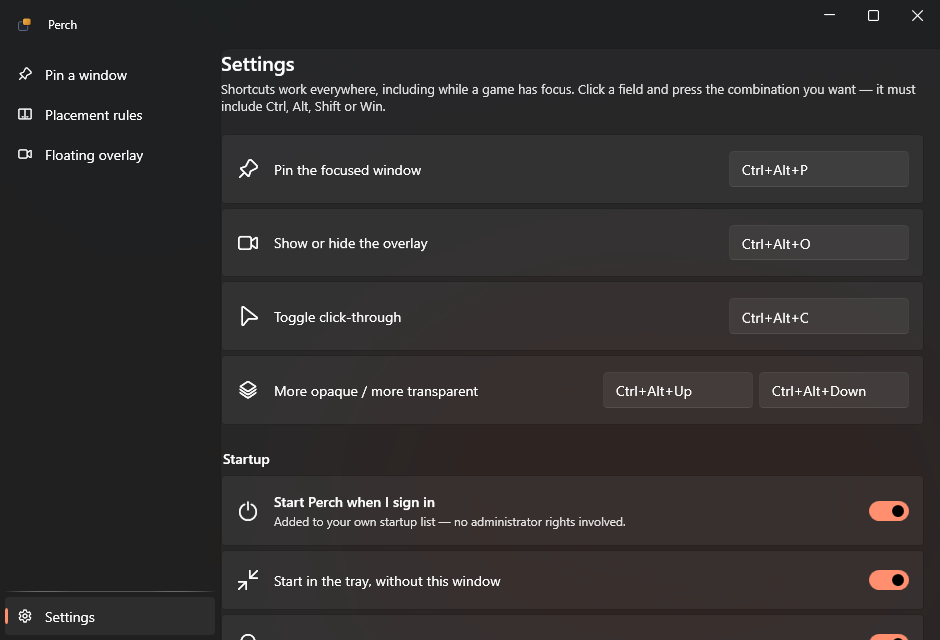
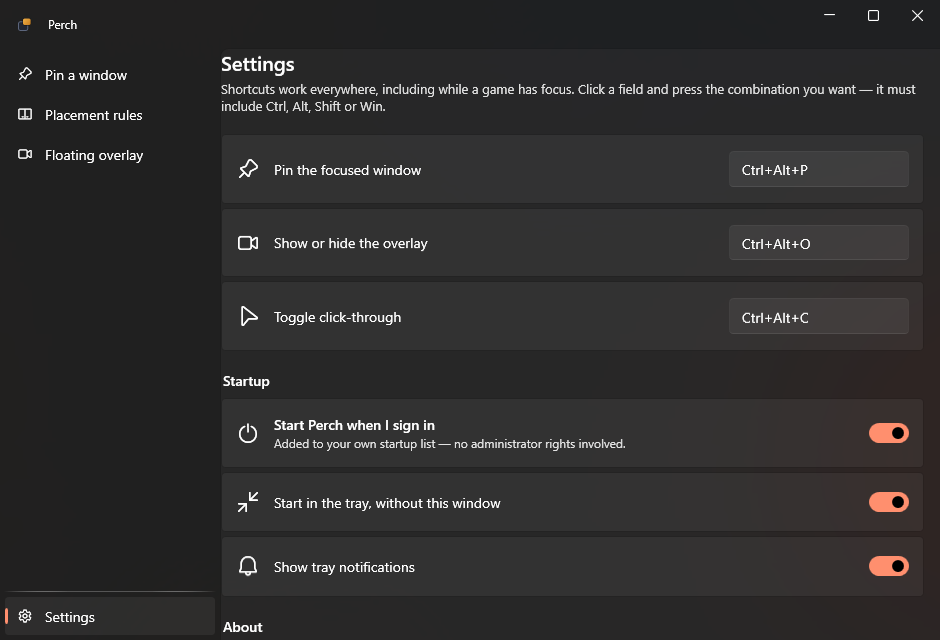
Remove the overlay opacity slider: it never worked
Measured against the live window: SetWindowLongPtr reports success but the
WS_EX_LAYERED bit does not stick, and SetLayeredWindowAttributes then fails
with ERROR_INVALID_PARAMETER. WPF clears that style on every window settings
update unless AllowsTransparency is on, and AllowsTransparency cannot render
WebView2 content at all -- so a translucent viewer would mean hosting the
browser outside WPF. Not worth that for a secondary feature.

Ruled out first, each verified against the window rather than assumed:
re-applying the style on a timer, software render mode, and WindowChrome
(restored afterwards -- it was not the cause and it provides the resize edges).

The slider, its two shortcuts and the stored setting are gone rather than left
sitting there doing nothing. README says why, and points at pinning your own
browser window if you want to see the game through it.

Also fixes a crash log on every extra launch: the second instance called
ReleaseMutex on a mutex it had never owned.

diff --git a/src/Perch/Views/OverlayWindow.xaml b/src/Perch/Views/OverlayWindow.xaml
@@ -1,4 +1,4 @@
-<Window x:Class="Perch.Views.OverlayWindow"
+<Window x:Class="Perch.Views.OverlayWindow"
         xmlns="http://schemas.microsoft.com/winfx/2006/xaml/presentation"
         xmlns:x="http://schemas.microsoft.com/winfx/2006/xaml"
         xmlns:shell="clr-namespace:System.Windows.Shell;assembly=PresentationFramework"
@@ -14,8 +14,8 @@
         Background="{DynamicResource ApplicationBackgroundBrush}"
         UseLayoutRounding="True">
 
-    <!-- Deliberately frameless: this is a video frame that sits over a game,
-         so a full title bar would only eat pixels. -->
+    <!-- Deliberately frameless: this is a video frame that sits over a game, so a full
+         title bar would only eat pixels. -->
     <shell:WindowChrome.WindowChrome>
         <shell:WindowChrome CaptionHeight="0"
                             ResizeBorderThickness="6"
@@ -40,7 +40,6 @@
                         <ColumnDefinition Width="Auto" />
                         <ColumnDefinition Width="Auto" />
                         <ColumnDefinition Width="*" />
-                        <ColumnDefinition Width="Auto" />
                         <ColumnDefinition Width="Auto" />
                         <ColumnDefinition Width="Auto" />
                         <ColumnDefinition Width="Auto" />
@@ -71,19 +70,15 @@
                                 VerticalContentAlignment="Center" KeyDown="AddressBox_KeyDown"
                                 PlaceholderText="Address — press Enter to go" />
 
-                    <Slider x:Name="OpacitySlider" Grid.Column="4" Width="80" Margin="4,0,8,0"
-                            Minimum="0.2" Maximum="1.0" Value="1.0" SmallChange="0.05" LargeChange="0.1"
-                            VerticalAlignment="Center" ToolTip="Opacity"
-                            ValueChanged="OpacitySlider_ValueChanged" />
 
-                    <ui:Button x:Name="MuteButton" Grid.Column="5" Appearance="Transparent" Padding="6,3"
+                    <ui:Button x:Name="MuteButton" Grid.Column="4" Appearance="Transparent" Padding="6,3"
                                ToolTip="Mute" Click="Mute_Click">
                         <ui:Button.Icon>
                             <ui:SymbolIcon x:Name="MuteIcon" Symbol="Speaker224" />
                         </ui:Button.Icon>
                     </ui:Button>
 
-                    <ui:Button x:Name="ClickThroughButton" Grid.Column="6" Appearance="Transparent" Padding="6,3"
+                    <ui:Button x:Name="ClickThroughButton" Grid.Column="5" Appearance="Transparent" Padding="6,3"
                                ToolTip="Click-through — the mouse passes to whatever is underneath"
                                Click="ClickThrough_Click">
                         <ui:Button.Icon>
@@ -91,7 +86,7 @@
                         </ui:Button.Icon>
                     </ui:Button>
 
-                    <ui:Button x:Name="CloseButton" Grid.Column="7" Appearance="Transparent" Padding="6,3"
+                    <ui:Button x:Name="CloseButton" Grid.Column="6" Appearance="Transparent" Padding="6,3"
                                Margin="0,0,4,0" ToolTip="Close overlay" Click="Close_Click">
                         <ui:Button.Icon>
                             <ui:SymbolIcon Symbol="Dismiss24" />

diff --git a/src/Perch/Views/Pages/SettingsPage.xaml b/src/Perch/Views/Pages/SettingsPage.xaml
@@ -33,7 +33,7 @@
                             PreviewKeyDown="Hotkey_PreviewKeyDown" />
             </ui:CardControl>
 
-            <ui:CardControl Margin="0,0,0,4">
+            <ui:CardControl>
                 <ui:CardControl.Icon>
                     <ui:SymbolIcon Symbol="Cursor24" />
                 </ui:CardControl.Icon>
@@ -44,20 +44,6 @@
                             PreviewKeyDown="Hotkey_PreviewKeyDown" />
             </ui:CardControl>
 
-            <ui:CardControl Margin="0,0,0,4">
-                <ui:CardControl.Icon>
-                    <ui:SymbolIcon Symbol="Layer24" />
-                </ui:CardControl.Icon>
-                <ui:CardControl.Header>
-                    <TextBlock VerticalAlignment="Center" Text="More opaque / more transparent" />
-                </ui:CardControl.Header>
-                <StackPanel Orientation="Horizontal">
-                    <ui:TextBox x:Name="HkOpacityUp" Width="150" IsReadOnly="True" Tag="opacityup"
-                                Margin="0,0,6,0" PreviewKeyDown="Hotkey_PreviewKeyDown" />
-                    <ui:TextBox x:Name="HkOpacityDown" Width="150" IsReadOnly="True" Tag="opacitydown"
-                                PreviewKeyDown="Hotkey_PreviewKeyDown" />
-                </StackPanel>
-            </ui:CardControl>
 
             <ui:InfoBar x:Name="HotkeyWarning" Margin="0,8,0,0" IsOpen="False" IsClosable="True"
                         Severity="Warning" Title="Shortcut not available" />

diff --git a/src/Perch/Views/Pages/OverlayPage.xaml b/src/Perch/Views/Pages/OverlayPage.xaml
@@ -88,7 +88,7 @@
                 <ui:ToggleSwitch x:Name="ChkClickThrough" Checked="Toggle_Changed" Unchecked="Toggle_Changed" />
             </ui:CardControl>
 
-            <ui:CardControl Margin="0,0,0,4">
+            <ui:CardControl>
                 <ui:CardControl.Icon>
                     <ui:SymbolIcon Symbol="EyeOff24" />
                 </ui:CardControl.Icon>
@@ -100,20 +100,6 @@
                 <ui:ToggleSwitch x:Name="ChkAutoHide" Checked="Toggle_Changed" Unchecked="Toggle_Changed" />
             </ui:CardControl>
 
-            <ui:CardControl>
-                <ui:CardControl.Icon>
-                    <ui:SymbolIcon Symbol="Layer24" />
-                </ui:CardControl.Icon>
-                <ui:CardControl.Header>
-                    <StackPanel VerticalAlignment="Center">
-                        <TextBlock FontWeight="SemiBold" Text="Opacity" />
-                        <TextBlock x:Name="OpacityLabel" Style="{StaticResource RowCaption}" />
-                    </StackPanel>
-                </ui:CardControl.Header>
-                <Slider x:Name="OpacityControl" Width="180" Minimum="0.2" Maximum="1.0"
-                        SmallChange="0.05" VerticalAlignment="Center"
-                        ValueChanged="Opacity_ValueChanged" />
-            </ui:CardControl>
 
             <ui:InfoBar Margin="0,20,0,0" IsOpen="True" IsClosable="False" Severity="Informational"
                         Title="Exclusive full-screen"

diff --git a/src/Perch/Views/OverlayWindow.xaml.cs b/src/Perch/Views/OverlayWindow.xaml.cs
@@ -23,11 +23,12 @@ namespace Perch.Views;
 /// </summary>
 public partial class OverlayWindow : Window
 {
-    private readonly DispatcherTimer _topmostGuard;
+    private readonly DispatcherTimer _guard;
     private readonly DispatcherTimer _hoverWatch;
     private IntPtr _handle;
     private bool _ready;
     private bool _toolbarVisible = true;
+
 
     private static Models.OverlaySettings Settings => App.Config.Config.Overlay;
 
@@ -37,12 +38,13 @@ public partial class OverlayWindow : Window
 
         RestoreGeometry();
 
-        // Some games claim the top of the z-order for themselves; re-assert on a slow beat.
-        _topmostGuard = new DispatcherTimer(DispatcherPriority.Background)
+        // Full-screen apps take the top of the z-order for themselves, so it is
+        // re-asserted on a slow beat rather than trusted after a single call.
+        _guard = new DispatcherTimer(DispatcherPriority.Background)
         {
             Interval = TimeSpan.FromSeconds(1.5)
         };
-        _topmostGuard.Tick += (_, _) => KeepOnTop();
+        _guard.Tick += (_, _) => { if (Settings.AggressiveTopmost) KeepOnTop(); };
 
         // WebView2 hosts a child HWND, so WPF never sees the mouse enter the page.
         // Poll the cursor instead to decide whether the toolbar should be showing.
@@ -95,19 +97,15 @@ public partial class OverlayWindow : Window
     {
         _handle = new WindowInteropHelper(this).Handle;
 
-        // Out of Alt+Tab, and layered so opacity works without AllowsTransparency
-        // (which WebView2 cannot render into).
+        // Keep the overlay out of Alt+Tab.
         Native.ToggleExStyle(_handle, Native.WS_EX_TOOLWINDOW, true);
         Native.ToggleExStyle(_handle, Native.WS_EX_APPWINDOW, false);
-        Native.ToggleExStyle(_handle, Native.WS_EX_LAYERED, true);
 
-        OpacitySlider.Value = Settings.Opacity;
-        ApplyOpacity(Settings.Opacity);
         ApplyNoActivate(Settings.NoActivate);
         ApplyClickThrough(Settings.ClickThrough);
 
         KeepOnTop();
-        if (Settings.AggressiveTopmost) _topmostGuard.Start();
+        _guard.Start();
         _hoverWatch.Start();
 
         await InitializeWebViewAsync();
@@ -187,39 +185,7 @@ public partial class OverlayWindow : Window
         Settings.AggressiveTopmost = on;
         App.Config.Save();
 
-        if (on)
-        {
-            KeepOnTop();
-            _topmostGuard.Start();
-        }
-        else
-        {
-            _topmostGuard.Stop();
-        }
-    }
-
-    // ---- Opacity --------------------------------------------------------
-
-    private void ApplyOpacity(double value)
-    {
-        if (_handle == IntPtr.Zero) return;
-
-        var alpha = (byte)Math.Clamp(value * 255.0, 51, 255);
-        Native.SetLayeredWindowAttributes(_handle, 0, alpha, Native.LWA_ALPHA);
-    }
-
-    public double CurrentOpacity => OpacitySlider.Value;
-
-    public void NudgeOpacity(double delta) => SetOpacity(OpacitySlider.Value + delta);
-
-    public void SetOpacity(double value) =>
-        OpacitySlider.Value = Math.Clamp(value, OpacitySlider.Minimum, OpacitySlider.Maximum);
-
-    private void OpacitySlider_ValueChanged(object sender, RoutedPropertyChangedEventArgs<double> e)
-    {
-        ApplyOpacity(e.NewValue);
-        Settings.Opacity = e.NewValue;
-        App.Config.Save();
+        if (on) KeepOnTop();
     }
 
     // ---- Click-through --------------------------------------------------
@@ -334,7 +300,7 @@ public partial class OverlayWindow : Window
 
     private void OnClosing(object? sender, CancelEventArgs e)
     {
-        _topmostGuard.Stop();
+        _guard.Stop();
         _hoverWatch.Stop();
 
         if (WindowState == WindowState.Normal)

diff --git a/src/Perch/App.xaml.cs b/src/Perch/App.xaml.cs
@@ -1,4 +1,4 @@
-using System.Threading;
+using System.Threading;
 using System.Windows;
 using Perch.Interop;
 using Perch.Services;
@@ -15,6 +15,7 @@ public partial class App : Application
 
     private Mutex? _instanceMutex;
     private EventWaitHandle? _showWindowEvent;
+    private bool _ownsInstanceMutex;
 
     public static ConfigService Config { get; private set; } = null!;
     public static PinService Pins { get; private set; } = null!;
@@ -97,8 +98,6 @@ public partial class App : Application
             Overlay.SetClickThrough(!Config.Config.Overlay.ClickThrough);
         });
 
-        Hotkeys.Register("opacityup", keys.OpacityUp, () => Overlay?.NudgeOpacity(+0.1));
-        Hotkeys.Register("opacitydown", keys.OpacityDown, () => Overlay?.NudgeOpacity(-0.1));
     }
 
     private static string Trim(string text) =>
@@ -156,6 +155,7 @@ public partial class App : Application
     private bool ClaimSingleInstance()
     {
         _instanceMutex = new Mutex(initiallyOwned: true, InstanceMutexName, out var isNew);
+        _ownsInstanceMutex = isNew;
 
         _showWindowEvent = new EventWaitHandle(false, EventResetMode.AutoReset, ShowWindowEventName);
 
@@ -186,7 +186,10 @@ public partial class App : Application
             Rules?.Dispose();
             Pins?.Dispose();
             Config?.SaveNow();
-            _instanceMutex?.ReleaseMutex();
+
+            // A second launch never owned the mutex — it only signalled the running
+            // instance and quit. Releasing it from here would throw every time.
+            if (_ownsInstanceMutex) _instanceMutex?.ReleaseMutex();
             _instanceMutex?.Dispose();
         }
         catch (Exception ex)

diff --git a/src/Perch/Views/Pages/SettingsPage.xaml.cs b/src/Perch/Views/Pages/SettingsPage.xaml.cs
@@ -1,4 +1,4 @@
-using System.Diagnostics;
+using System.Diagnostics;
 using System.IO;
 using System.Reflection;
 using System.Windows;
@@ -33,8 +33,6 @@ public partial class SettingsPage : Page
             HkPin.Text = keys.TogglePinForeground;
             HkOverlay.Text = keys.ToggleOverlay;
             HkClickThrough.Text = keys.ToggleClickThrough;
-            HkOpacityUp.Text = keys.OpacityUp;
-            HkOpacityDown.Text = keys.OpacityDown;
 
             var general = App.Config.Config.General;
             ChkStartWithWindows.IsChecked = general.StartWithWindows;
@@ -78,8 +76,6 @@ public partial class SettingsPage : Page
             case "pin": keys.TogglePinForeground = gesture; break;
             case "overlay": keys.ToggleOverlay = gesture; break;
             case "clickthrough": keys.ToggleClickThrough = gesture; break;
-            case "opacityup": keys.OpacityUp = gesture; break;
-            case "opacitydown": keys.OpacityDown = gesture; break;
         }
 
         App.Config.Save();

diff --git a/src/Perch/Views/Pages/OverlayPage.xaml.cs b/src/Perch/Views/Pages/OverlayPage.xaml.cs
@@ -38,8 +38,6 @@ public partial class OverlayPage : Page
             ChkNoActivate.IsChecked = Settings.NoActivate;
             ChkClickThrough.IsChecked = Settings.ClickThrough;
             ChkAutoHide.IsChecked = Settings.AutoHideToolbar;
-            OpacityControl.Value = Settings.Opacity;
-            OpacityLabel.Text = $"{Settings.Opacity * 100:0}% opaque";
             BookmarkList.ItemsSource = Settings.Bookmarks.Select(Bookmark.From).ToList();
 
             _loading = false;
@@ -83,16 +81,4 @@ public partial class OverlayPage : Page
         App.Config.Save();
     }
 
-    private void Opacity_ValueChanged(object sender, RoutedPropertyChangedEventArgs<double> e)
-    {
-        if (OpacityLabel is null) return;
-
-        OpacityLabel.Text = $"{e.NewValue * 100:0}% opaque";
-        if (_loading) return;
-
-        Settings.Opacity = e.NewValue;
-        App.Config.Save();
-
-        if (App.Overlay is { IsLoaded: true } live) live.SetOpacity(e.NewValue);
-    }
 }

diff --git a/src/Perch/Models/AppConfig.cs b/src/Perch/Models/AppConfig.cs
@@ -1,4 +1,4 @@
-using System.Text.Json.Serialization;
+using System.Text.Json.Serialization;
 
 namespace Perch.Models;
 
@@ -30,8 +30,6 @@ public sealed class OverlaySettings
     public double Width { get; set; } = 640;
     public double Height { get; set; } = 380;
 
-    /// <summary>0.20 - 1.00</summary>
-    public double Opacity { get; set; } = 1.0;
 
     /// <summary>Mouse events pass straight through to the game underneath.</summary>
     public bool ClickThrough { get; set; }
@@ -59,8 +57,7 @@ public sealed class HotkeySettings
     public string TogglePinForeground { get; set; } = "Ctrl+Alt+P";
     public string ToggleOverlay { get; set; } = "Ctrl+Alt+O";
     public string ToggleClickThrough { get; set; } = "Ctrl+Alt+C";
-    public string OpacityUp { get; set; } = "Ctrl+Alt+Up";
-    public string OpacityDown { get; set; } = "Ctrl+Alt+Down";
+
 }
 
 public enum TargetWindowState

diff --git a/README.md b/README.md
@@ -10,8 +10,7 @@ Perch is a small Windows tray app that does three things well:
 2. **Placement rules.** Send an app to the monitor it belongs on, every time it opens.
    *Discord, maximised, on monitor 2* — set it once and stop dragging windows around.
 3. **A floating overlay,** if you would rather not give up a browser window: a borderless
-   always-on-top viewer with adjustable opacity, click-through, and a toolbar that hides
-   until you hover.
+   always-on-top viewer with click-through and a toolbar that hides until you hover.
 
 Built for wide and multi-monitor desktops, where there is plenty of screen left over
 while a game runs.
@@ -68,7 +67,6 @@ Drag it by the grip on the left of its toolbar, resize it from any edge.
 | Fight for the top of the stack | Re-asserts always-on-top every 1.5 s. Some games grab the top of the z-order for themselves; this takes it back. |
 | Never steal keyboard focus | Clicking the overlay will not pull focus out of a borderless game. You also cannot type into the page while it is on. |
 | Click-through | The mouse passes straight through to whatever is underneath. Toggle it back with the shortcut. |
-| Opacity | Fade the overlay down so you can see through it. |
 
 ## Shortcuts
 
@@ -77,7 +75,6 @@ Drag it by the grip on the left of its toolbar, resize it from any edge.
 | `Ctrl+Alt+P` | Pin / unpin the focused window |
 | `Ctrl+Alt+O` | Show or hide the overlay |
 | `Ctrl+Alt+C` | Toggle click-through |
-| `Ctrl+Alt+↑` / `↓` | More or less opaque |
 
 All of them are rebindable under **Settings**. They work while a game has focus.
 
@@ -93,6 +90,12 @@ game offers it, and on a fast machine the difference in performance is negligibl
 
 **DRM video.** Netflix, Disney+ and similar rely on Widevine, which the WebView2 runtime
 does not carry. YouTube, Twitch, and ordinary web video are fine.
+
+**A see-through overlay.** Fading the overlay needs `WS_EX_LAYERED`, and WPF clears that
+style on any window it did not make transparent itself. The supported alternative,
+`AllowsTransparency`, cannot render WebView2 content at all — so a translucent viewer
+would mean hosting the browser outside WPF entirely. Pin your own browser window instead
+if you want to see the game through it; the overlay is opaque by design.
 
 ## Building it yourself
 
